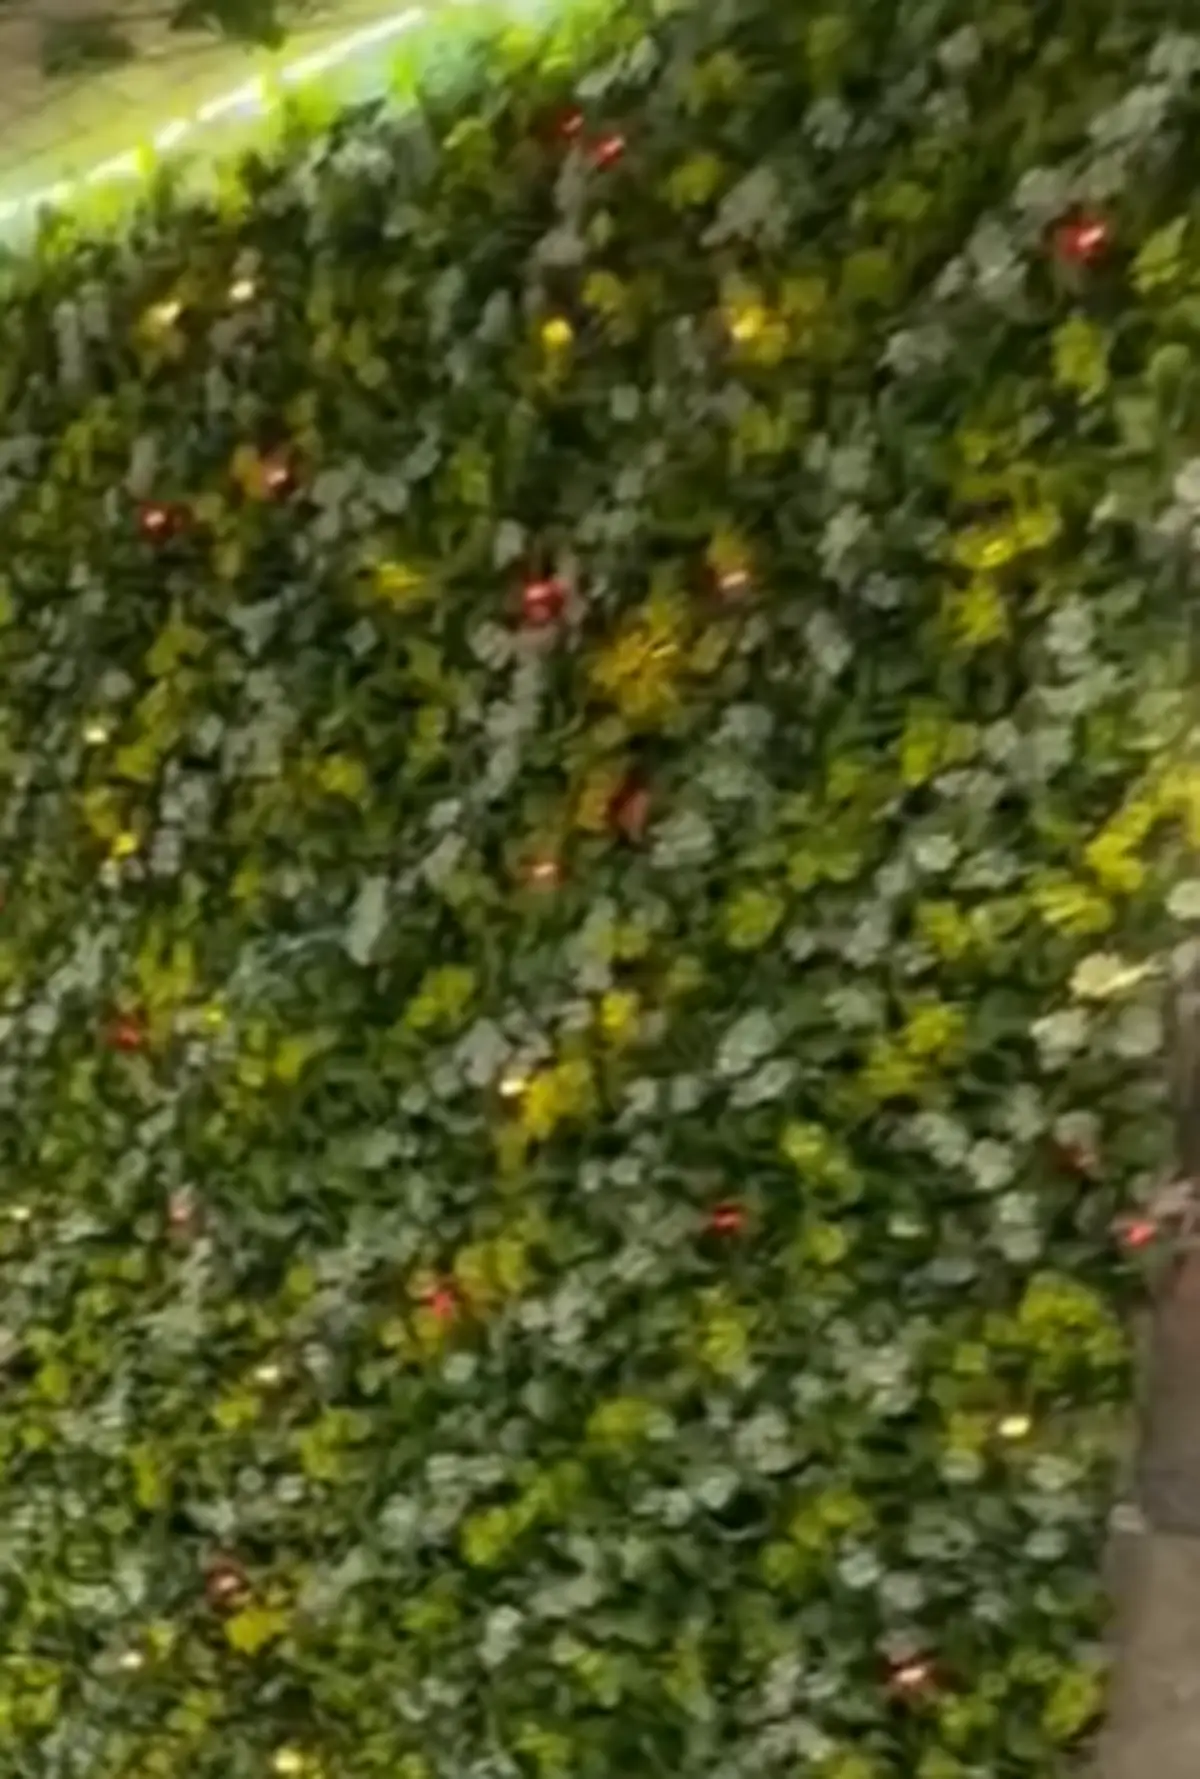
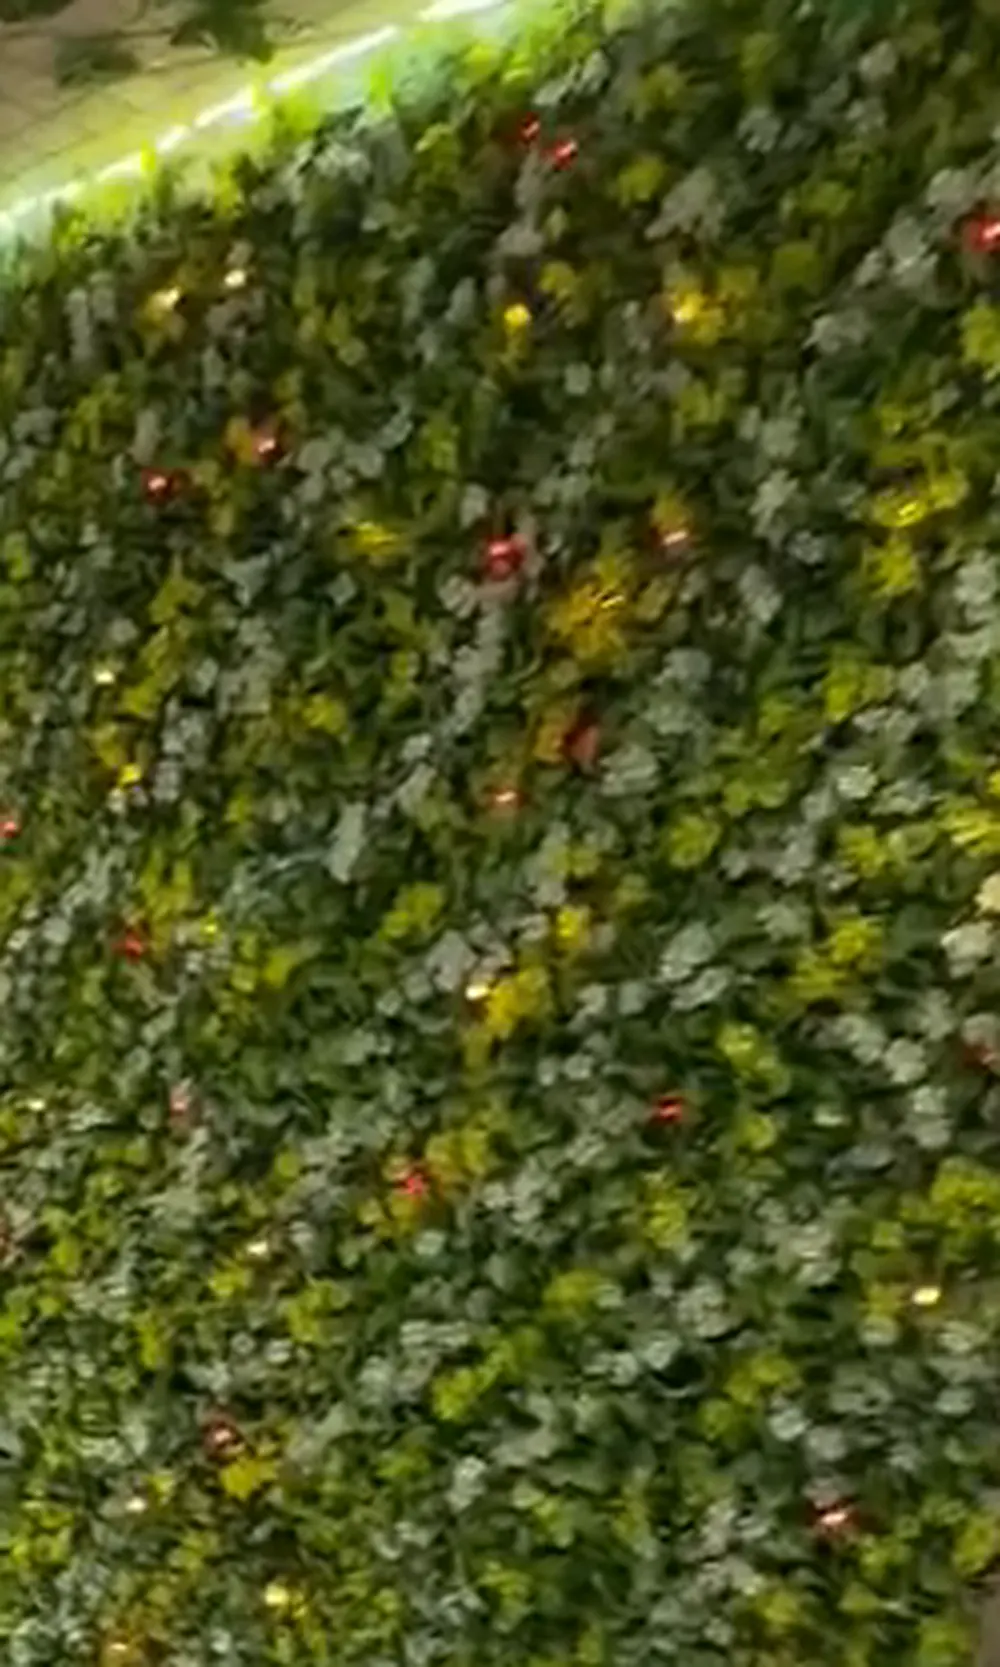
Pflanzenwand im Termin-Bereich deutlicher sichtbar
Claude-Session: https://claude.ai/code/session_017NZ8GijFNUXNU1cK4bvhz1

diff --git a/public/index.html b/public/index.html
@@ -25,7 +25,7 @@
   <link rel="preload" href="assets/fonts/bodoni-moda-normal-latin.woff2" as="font" type="font/woff2" crossorigin>
   <link rel="preload" href="assets/fonts/jost-normal-latin.woff2" as="font" type="font/woff2" crossorigin>
   <link rel="stylesheet" href="assets/css/fonts.css?v=20261105">
-  <link rel="stylesheet" href="assets/css/style.css?v=20261118">
+  <link rel="stylesheet" href="assets/css/style.css?v=20261119">
   <script>document.documentElement.classList.add("js")</script>
 
   <script type="application/ld+json">
@@ -303,7 +303,7 @@
 
   <!-- ============ BOOKING CTA ============ -->
   <section class="cta" id="termin" data-theme="dark">
-    <div class="cta-bg"><img src="assets/img/pflanzenwand.webp" alt="" loading="lazy" width="1200" height="1779"></div>
+    <div class="cta-bg"><img src="assets/img/pflanzenwand.webp" alt="" loading="lazy" width="1000" height="1666"></div>
     <div class="wrap cta-inner">
       <p class="label reveal">— Online buchen</p>
       <h2 class="cta-title reveal">Ihr <em>Termin.</em></h2>

diff --git a/public/assets/css/style.css b/public/assets/css/style.css
@@ -748,9 +748,12 @@ h2 em, .hero-title em, .ft-claim em { color: var(--green-600); }
 .marquee { border-top-color: rgba(169, 205, 179, .18); }
 .cta { background: var(--green-950); }
 /* Hintergrund: die echte Pflanzenwand aus dem Studio */
-.cta-bg { opacity: .75; }
-.cta-bg img { filter: saturate(.85) brightness(.75); }
-.cta-bg::after { background: radial-gradient(ellipse at center, rgba(13, 36, 26, .45), rgba(13, 36, 26, .94) 78%); }
+/* Pflanzen gut sichtbar; nur hinter dem Text abgedunkelt, damit er lesbar bleibt */
+.cta-bg { opacity: 1; }
+.cta-bg img { filter: saturate(1.05) brightness(.82); }
+.cta-bg::after { background: radial-gradient(ellipse 60% 55% at center, rgba(13, 36, 26, .72), rgba(13, 36, 26, .45) 70%, rgba(13, 36, 26, .3)); }
+.cta-inner { text-shadow: 0 2px 18px rgba(5, 18, 12, .55); }
+.cta-inner .btn-solid { text-shadow: none; }
 .ig { background: var(--sage-50); border-top-color: #dde7de; }
 
 /* Knöpfe */

diff --git a/public/404.html b/public/404.html
@@ -11,7 +11,7 @@
   <link rel="preload" href="/assets/fonts/bodoni-moda-normal-latin.woff2" as="font" type="font/woff2" crossorigin>
   <link rel="preload" href="/assets/fonts/jost-normal-latin.woff2" as="font" type="font/woff2" crossorigin>
   <link rel="stylesheet" href="/assets/css/fonts.css?v=20261105">
-  <link rel="stylesheet" href="/assets/css/style.css?v=20261118">
+  <link rel="stylesheet" href="/assets/css/style.css?v=20261119">
 </head>
 <body>
 <header class="hd legal-hd" data-mode="light">

diff --git a/public/datenschutz.html b/public/datenschutz.html
@@ -11,7 +11,7 @@
   <link rel="preload" href="assets/fonts/bodoni-moda-normal-latin.woff2" as="font" type="font/woff2" crossorigin>
   <link rel="preload" href="assets/fonts/jost-normal-latin.woff2" as="font" type="font/woff2" crossorigin>
   <link rel="stylesheet" href="assets/css/fonts.css?v=20261105">
-  <link rel="stylesheet" href="assets/css/style.css?v=20261118">
+  <link rel="stylesheet" href="assets/css/style.css?v=20261119">
 </head>
 <body>
 <header class="hd legal-hd" data-mode="light">

diff --git a/public/impressum.html b/public/impressum.html
@@ -11,7 +11,7 @@
   <link rel="preload" href="assets/fonts/bodoni-moda-normal-latin.woff2" as="font" type="font/woff2" crossorigin>
   <link rel="preload" href="assets/fonts/jost-normal-latin.woff2" as="font" type="font/woff2" crossorigin>
   <link rel="stylesheet" href="assets/css/fonts.css?v=20261105">
-  <link rel="stylesheet" href="assets/css/style.css?v=20261118">
+  <link rel="stylesheet" href="assets/css/style.css?v=20261119">
 </head>
 <body>
 <header class="hd legal-hd" data-mode="light">
